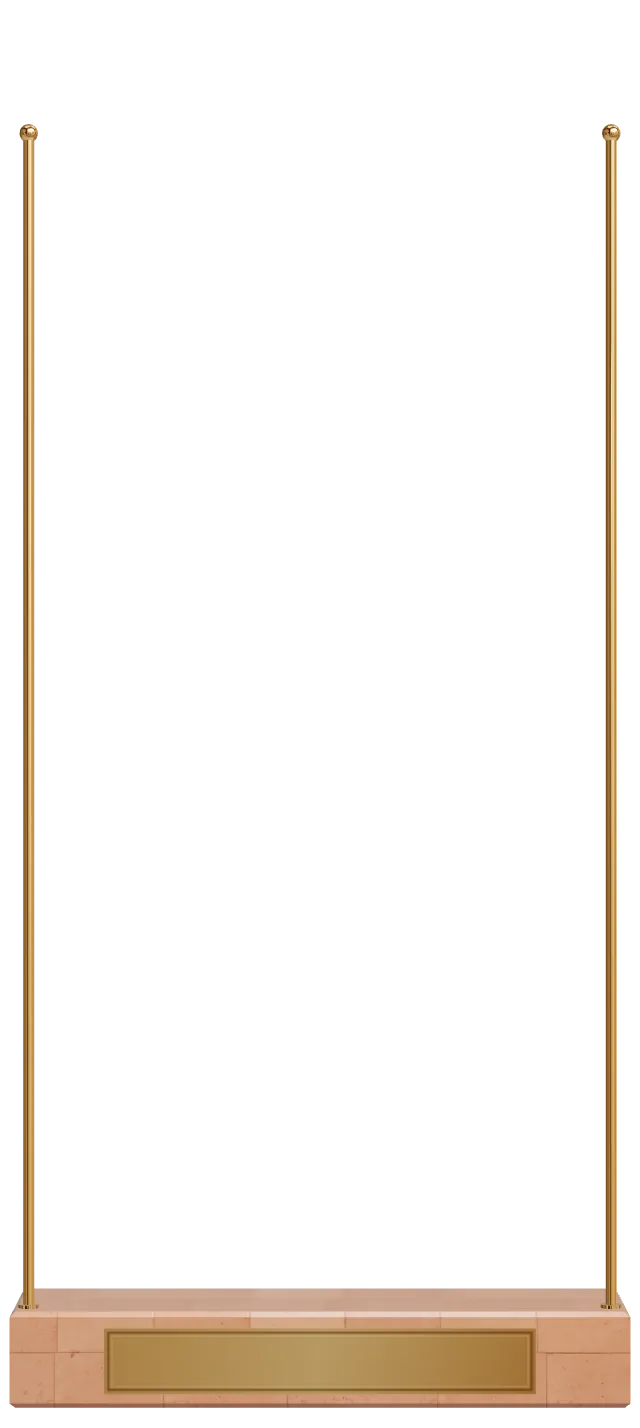
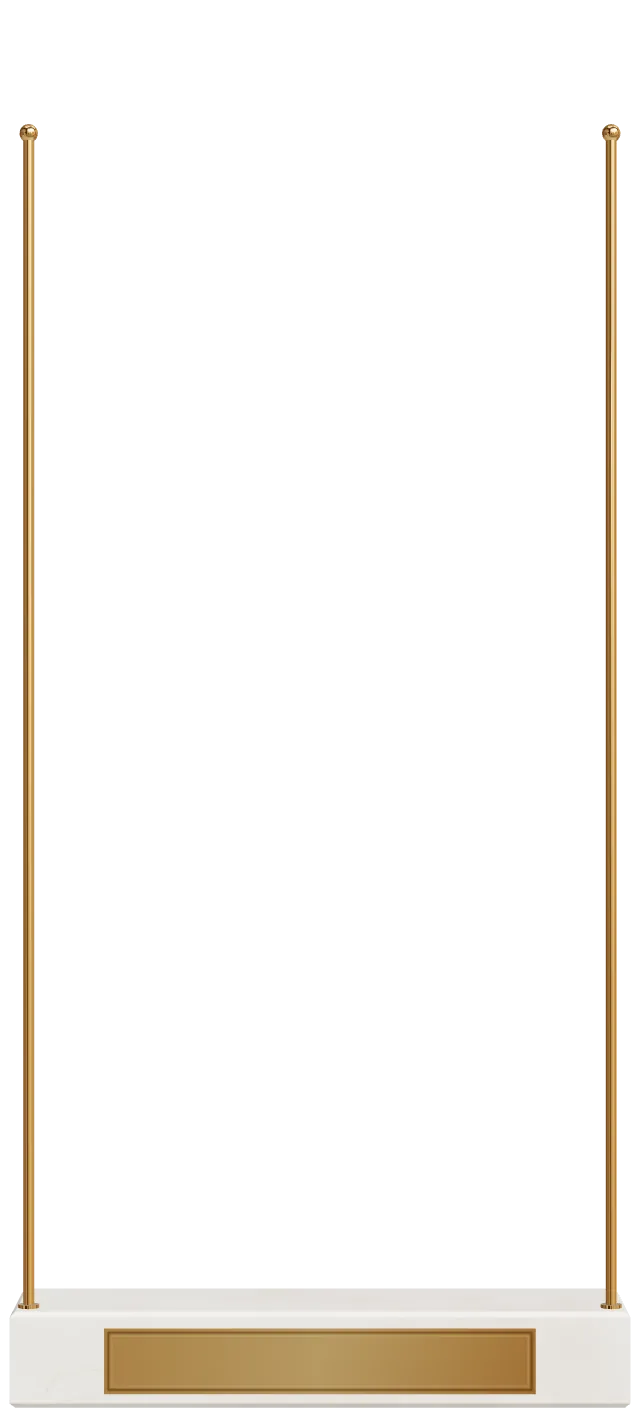
Каталка Б: белая мраморная плита под белый зал, убран фильтр

Changed region(s): [[0.0, 0.8936, 1.0, 0.986]]

diff --git a/src/zal.css b/src/zal.css
@@ -56,7 +56,7 @@ body.zoom #hint,body.zoom #walk{opacity:0;pointer-events:none}
 .end span{font-size:12px;letter-spacing:.16em;text-transform:uppercase;opacity:.85}
 .end button{border:1px solid rgba(255,255,255,.5);background:rgba(255,255,255,.14);backdrop-filter:blur(8px);color:#fff;border-radius:999px;padding:11px 20px;cursor:pointer;font-size:14px}
 
-/* ---------- каталка: спрайты из scripts/render-rack.mjs (латунь на плите розового мрамора); вещи лежат между слоями ---------- */
+/* ---------- каталка: спрайты из scripts/render-rack.mjs (латунь на плите белого мрамора); вещи лежат между слоями ---------- */
 .rack{position:absolute;left:0;top:0;width:min(36vw,560px,54.8vh);aspect-ratio:1/1.2775;touch-action:pan-y;--slab:16%;transform-origin:0 0} /* выкат: scale вокруг левого верхнего угла, сдвиг считает zal.js */
 .items{position:absolute;left:1%;right:1%;top:10%;bottom:var(--slab);perspective:2600px;perspective-origin:50% 0;cursor:grab}
 .spr{position:absolute;left:-6%;top:0;width:112%;height:100%;pointer-events:none;user-select:none;-webkit-user-drag:none}
@@ -233,3 +233,21 @@ body.zoom #hint,body.zoom #walk{opacity:0;pointer-events:none}
 .stage.deep .rail-r{background:color-mix(in srgb,var(--paper) 82%,transparent);backdrop-filter:blur(8px);padding:10px 12px;border-radius:12px}
 .jtop .snd{flex:none;width:38px;height:38px;border-radius:50%;border:1px solid var(--line);background:var(--paper);color:var(--ink);display:grid;place-items:center;cursor:pointer}
 .jtop .snd.off{color:var(--muted)}.jtop .snd.off .w{display:none}
+
+/* ---------- женский зал: белый мраморный зал (прототип «Выкат по скроллу»), светлая тема ---------- */
+:root[data-hall="women"] body{background:#efe9e1}
+:root[data-hall="women"] .shade{background:linear-gradient(180deg,rgba(255,252,247,.62),rgba(255,252,247,0) 18%,transparent 80%,rgba(60,45,30,.14)),radial-gradient(130% 95% at 50% 45%,transparent 62%,rgba(120,96,64,.14))}
+:root[data-hall="women"] .top{color:#2a1e1f;text-shadow:none}
+:root[data-hall="women"] .seg{background:rgba(255,255,255,.6);border-color:rgba(42,30,31,.15)}
+:root[data-hall="women"] .seg button{color:#2a1e1f}
+:root[data-hall="women"] .seg button[aria-pressed="true"]{background:#2a1e1f;color:#fff}
+:root[data-hall="women"] .bagbtn{color:#2a1e1f;background:rgba(255,255,255,.6);border-color:rgba(42,30,31,.18)}
+:root[data-hall="women"] .walk button{border-color:rgba(42,30,31,.55)}
+:root[data-hall="women"] .walk button.on{background:#2a1e1f}
+:root[data-hall="women"] .hint{background:rgba(31,26,23,.66);border-color:rgba(255,255,255,.35)}
+:root[data-hall="women"] .end{color:#2a1e1f;text-shadow:none}
+:root[data-hall="women"] .end button{color:#2a1e1f;border-color:rgba(42,30,31,.35);background:rgba(255,255,255,.55)}
+/* тень и туман под светлый мрамор: тёплая мягкая тень, даль уходит в светлую дымку */
+:root[data-hall="women"] .floor{background:radial-gradient(closest-side,rgba(120,100,78,.34),rgba(120,100,78,.12) 62%,transparent)}
+:root[data-hall="women"] .floor i{background:radial-gradient(closest-side,rgba(70,52,36,.42),transparent)}
+:root[data-hall="women"] .fog{background:#f1ebe3}

diff --git a/src/zal.js b/src/zal.js
@@ -9,7 +9,8 @@ const RUB=n=>Number(n).toLocaleString('ru-RU')+' ₽';
 const $=id=>document.getElementById(id);
 const esc=s=>String(s??'').replace(/[&<>"']/g,c=>({'&':'&amp;','<':'&lt;','>':'&gt;','"':'&quot;',"'":'&#39;'}[c]));
 const reduce=matchMedia('(prefers-reduced-motion: reduce)').matches;
-const BG={women:'/proby/a-women-2x.webp',men:'/proby/a-men-2x.webp'};
+const BG={women:'/proby/hall-white-2x.webp',men:'/proby/a-men-2x.webp'};
+const BGD={women:[3344,1880],men:[2688,1536]}; // размеры фонов в px — по ним считается cover
 const DEMO_IMG={P1:'/zal/p1.webp',P3:'/zal/p3.webp',P4:'/zal/p4.webp',M1:'/zal/m1.webp',M2:'/zal/m2.webp'};
 const SIZES_W=['42','44','46','48','50'], SIZES_M=['46','48','50','52','54'];
 
@@ -87,7 +88,7 @@ let rows=[];
 
 function setHall(h){
   hall=h;
-  if(h==='men')document.documentElement.setAttribute('data-hall','men'); else document.documentElement.removeAttribute('data-hall');
+  document.documentElement.setAttribute('data-hall',h); // women — белый зал (светлая тема), men — тёмный
   document.querySelectorAll('.seg button').forEach(b=>b.setAttribute('aria-pressed',b.dataset.h===h));
   $('sub').textContent=h==='men'?'Мужской зал':'Женский зал';
   bgEl.style.backgroundImage=`url(${BG[h]})`; // один фон на зал, без перекрёстных переходов
@@ -181,14 +182,14 @@ function renderLane(){
 const mob=()=>matchMedia('(max-width:760px)').matches;
 // перспектива зала берётся из фото: точка схода VP (доли кадра фото) переводится в экран с учётом cover и inset фона.
 // Всё стоит на полу: низ плиты на глубине s — hy+G·s, высота каталки H1·s (верх у линии глаз, как у вешалок в фото)
-const VP={women:[.5,.5],men:[.5,.58]};
+const VP={women:[.497,.58],men:[.5,.58]};
 const VANISH_SPREAD={d:.04,m:.07}, FAR=.45, DS=.82, B0=1.6;
 // мир интро в общем плане: [глубина s, центр x в долях экрана]; 0–1 — стартовая пара, дальше по стенам (чёт — левая)
 const INTRO={d:[[.74,.37],[.64,.66],[.52,.065],[.48,.935],[.38,.2],[.36,.81]],m:[[.8,.28],[.68,.74],[.42,.08],[.38,.93]]};
 const GEO={vx:0,hy:0,G:1,H1:1,ar:1.2775,sb:.953};
 function geo(){
   const vw=innerWidth, vh=innerHeight, m=mob();
-  const Ew=vw*1.14, Eh=vh*1.14, c=Math.max(Ew/2688,Eh/1536), Dw=2688*c, Dh=1536*c, [u,v]=VP[hall];
+  const Ew=vw*1.14, Eh=vh*1.14, [iw,ih]=BGD[hall], c=Math.max(Ew/iw,Eh/ih), Dw=iw*c, Dh=ih*c, [u,v]=VP[hall];
   const ex=(Ew-Dw)*.5+u*Dw, ey=(Eh-Dh)*.4+v*Dh; // фон: inset -7%, background-position center 40%
   bgEl.style.transformOrigin=`${ex.toFixed(1)}px ${ey.toFixed(1)}px`; // камера масштабирует фон вокруг точки схода
   GEO.vx=ex-vw*.07; GEO.hy=ey-vh*.07; GEO.ar=m?2.5:1.2775; GEO.sb=m?.976:.953;

diff --git a/index.html b/index.html
@@ -8,7 +8,7 @@
 <meta name="theme-color" content="#1a1512">
 <link rel="preconnect" href="https://fonts.googleapis.com">
 <link rel="stylesheet" href="https://fonts.googleapis.com/css2?family=Tenor+Sans&family=Golos+Text:wght@400;500;600&display=swap">
-<link rel="preload" as="image" href="/proby/a-women-2x.webp" fetchpriority="high">
+<link rel="preload" as="image" href="/proby/hall-white-2x.webp" fetchpriority="high">
 <link rel="stylesheet" href="/src/zal.css">
 </head>
 <body>
